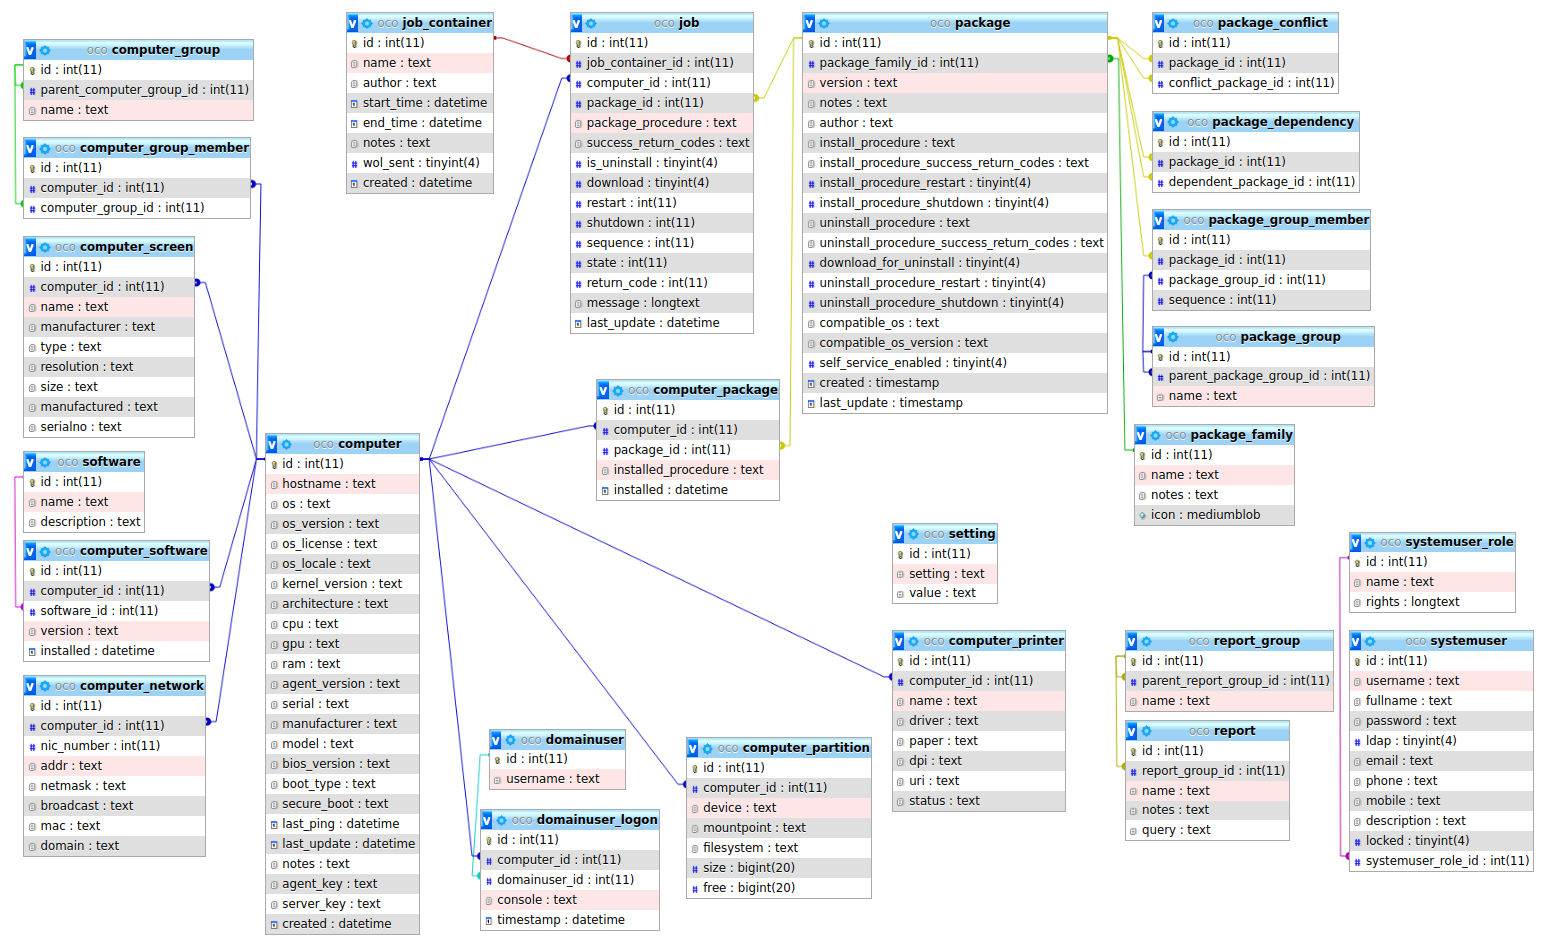
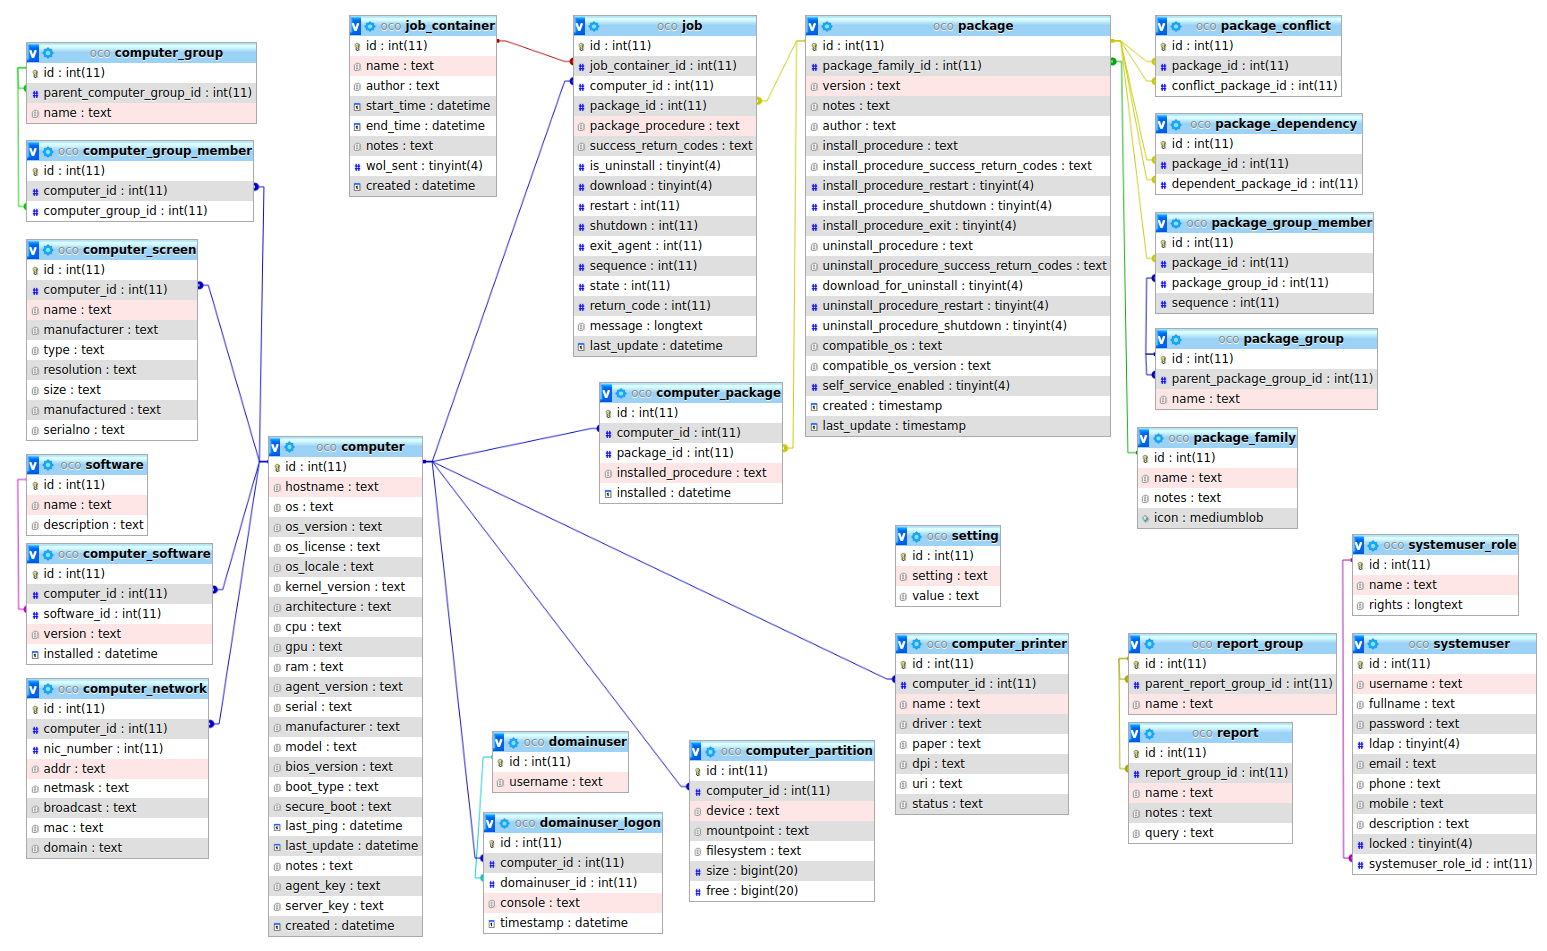
add agent exit/restart feature (for agent update packages)

diff --git a/frontend/js/main.js b/frontend/js/main.js
@@ -290,7 +290,7 @@ function updatePackageProcedureTemplates() {
 		lstUninstallProcedures.innerHTML = newOptions2;
 	}
 }
-function createPackage(name, version, description, archive, install_procedure, install_procedure_success_return_codes, install_procedure_restart, install_procedure_shutdown, uninstall_procedure, uninstall_procedure_success_return_codes, download_for_uninstall, uninstall_procedure_restart, uninstall_procedure_shutdown, compatible_os, compatible_os_version) {
+function createPackage(name, version, description, archive, install_procedure, install_procedure_success_return_codes, install_procedure_restart, install_procedure_shutdown, install_procedure_exit, uninstall_procedure, uninstall_procedure_success_return_codes, download_for_uninstall, uninstall_procedure_restart, uninstall_procedure_shutdown, compatible_os, compatible_os_version) {
 	if(typeof archive === 'undefined') {
 		if(!confirm(L__CONFIRM_CREATE_EMPTY_PACKAGE)) {
 			return;
@@ -311,6 +311,7 @@ function createPackage(name, version, description, archive, install_procedure, i
 	formData.append('install_procedure_success_return_codes', install_procedure_success_return_codes);
 	formData.append('install_procedure_restart', install_procedure_restart ? '1' : '0');
 	formData.append('install_procedure_shutdown', install_procedure_shutdown ? '1' : '0');
+	formData.append('install_procedure_exit', install_procedure_exit ? '1' : '0');
 	formData.append('uninstall_procedure', uninstall_procedure);
 	formData.append('uninstall_procedure_success_return_codes', uninstall_procedure_success_return_codes);
 	formData.append('download_for_uninstall', download_for_uninstall ? '1' : '0');

diff --git a/lib/Db.php b/lib/Db.php
@@ -631,10 +631,10 @@ class Db {
 		]);
 		return $this->dbh->lastInsertId();
 	}
-	public function addPackage($package_family_id, $version, $author, $notes, $install_procedure, $install_procedure_success_return_codes, $install_procedure_restart, $install_procedure_shutdown, $uninstall_procedure, $uninstall_procedure_success_return_codes, $download_for_uninstall, $uninstall_procedure_restart, $uninstall_procedure_shutdown, $compatible_os, $compatible_os_version) {
+	public function addPackage($package_family_id, $version, $author, $notes, $install_procedure, $install_procedure_success_return_codes, $install_procedure_restart, $install_procedure_shutdown, $install_procedure_exit, $uninstall_procedure, $uninstall_procedure_success_return_codes, $download_for_uninstall, $uninstall_procedure_restart, $uninstall_procedure_shutdown, $compatible_os, $compatible_os_version) {
 		$this->stmt = $this->dbh->prepare(
-			'INSERT INTO package (package_family_id, version, author, notes, install_procedure, install_procedure_success_return_codes, install_procedure_restart, install_procedure_shutdown, uninstall_procedure, uninstall_procedure_success_return_codes, download_for_uninstall, uninstall_procedure_restart, uninstall_procedure_shutdown, compatible_os, compatible_os_version)
-			VALUES (:package_family_id, :version, :author, :notes, :install_procedure, :install_procedure_success_return_codes, :install_procedure_restart, :install_procedure_shutdown, :uninstall_procedure, :uninstall_procedure_success_return_codes, :download_for_uninstall, :uninstall_procedure_restart, :uninstall_procedure_shutdown, :compatible_os, :compatible_os_version)'
+			'INSERT INTO package (package_family_id, version, author, notes, install_procedure, install_procedure_success_return_codes, install_procedure_restart, install_procedure_shutdown, install_procedure_exit, uninstall_procedure, uninstall_procedure_success_return_codes, download_for_uninstall, uninstall_procedure_restart, uninstall_procedure_shutdown, compatible_os, compatible_os_version)
+			VALUES (:package_family_id, :version, :author, :notes, :install_procedure, :install_procedure_success_return_codes, :install_procedure_restart, :install_procedure_shutdown, :install_procedure_exit, :uninstall_procedure, :uninstall_procedure_success_return_codes, :download_for_uninstall, :uninstall_procedure_restart, :uninstall_procedure_shutdown, :compatible_os, :compatible_os_version)'
 		);
 		$this->stmt->execute([
 			':package_family_id' => $package_family_id,
@@ -645,6 +645,7 @@ class Db {
 			':install_procedure_success_return_codes' => $install_procedure_success_return_codes,
 			':install_procedure_restart' => $install_procedure_restart,
 			':install_procedure_shutdown' => $install_procedure_shutdown,
+			':install_procedure_exit' => $install_procedure_exit,
 			':uninstall_procedure' => $uninstall_procedure,
 			':uninstall_procedure_success_return_codes' => $uninstall_procedure_success_return_codes,
 			':download_for_uninstall' => $download_for_uninstall,
@@ -704,6 +705,12 @@ class Db {
 			'UPDATE package SET last_update = CURRENT_TIMESTAMP, install_procedure_shutdown = :install_procedure_shutdown WHERE id = :id'
 		);
 		return $this->stmt->execute([':id' => $id, ':install_procedure_shutdown' => $newValue]);
+	}
+	public function updatePackageInstallProcedureExit($id, $newValue) {
+		$this->stmt = $this->dbh->prepare(
+			'UPDATE package SET last_update = CURRENT_TIMESTAMP, install_procedure_exit = :install_procedure_exit WHERE id = :id'
+		);
+		return $this->stmt->execute([':id' => $id, ':install_procedure_exit' => $newValue]);
 	}
 	public function updatePackageUninstallProcedure($id, $newValue) {
 		$this->stmt = $this->dbh->prepare(
@@ -1041,10 +1048,10 @@ class Db {
 		]);
 		return $this->dbh->lastInsertId();
 	}
-	public function addJob($job_container_id, $computer_id, $package_id, $package_procedure, $success_return_codes, $is_uninstall, $download, $restart, $shutdown, $sequence, $state=0) {
+	public function addJob($job_container_id, $computer_id, $package_id, $package_procedure, $success_return_codes, $is_uninstall, $download, $restart, $shutdown, $exit, $sequence, $state=0) {
 		$this->stmt = $this->dbh->prepare(
-			'INSERT INTO job (job_container_id, computer_id, package_id, package_procedure, success_return_codes, is_uninstall, download, restart, shutdown, sequence, state, message)
-			VALUES (:job_container_id, :computer_id, :package_id, :package_procedure, :success_return_codes, :is_uninstall, :download, :restart, :shutdown, :sequence, :state, "")'
+			'INSERT INTO job (job_container_id, computer_id, package_id, package_procedure, success_return_codes, is_uninstall, download, restart, shutdown, exit_agent, sequence, state, message)
+			VALUES (:job_container_id, :computer_id, :package_id, :package_procedure, :success_return_codes, :is_uninstall, :download, :restart, :shutdown, :exit_agent, :sequence, :state, "")'
 		);
 		$this->stmt->execute([
 			':job_container_id' => $job_container_id,
@@ -1056,6 +1063,7 @@ class Db {
 			':download' => $download,
 			':restart' => $restart,
 			':shutdown' => $shutdown,
+			':exit_agent' => $exit,
 			':sequence' => $sequence,
 			':state' => $state,
 		]);
@@ -1150,7 +1158,7 @@ class Db {
 	}
 	public function getPendingJobsForComputer($id) {
 		$this->stmt = $this->dbh->prepare(
-			'SELECT j.id AS "id", j.package_id AS "package_id", j.package_procedure AS "procedure", j.download AS "download", j.restart AS "restart", j.shutdown AS "shutdown"
+			'SELECT j.id AS "id", j.package_id AS "package_id", j.package_procedure AS "procedure", j.download AS "download", j.restart AS "restart", j.shutdown AS "shutdown", j.exit_agent AS "exit_agent"
 			FROM job j
 			INNER JOIN job_container jc ON j.job_container_id = jc.id
 			WHERE j.computer_id = :id

diff --git a/lib/CoreLogic.php b/lib/CoreLogic.php
@@ -97,7 +97,7 @@ class CoreLogic {
 
 	/*** Package Operations ***/
 	public function createPackage($name, $version, $description, $author,
-		$installProcedure, $installProcedureSuccessReturnCodes, $installProcedureRestart, $installProcedureShutdown,
+		$installProcedure, $installProcedureSuccessReturnCodes, $installProcedureRestart, $installProcedureShutdown, $installProcedureExit,
 		$uninstallProcedure, $uninstallProcedureSuccessReturnCodes, $downloadForUninstall, $uninstallProcedureRestart, $uninstallProcedureShutdown,
 		$compatibleOs, $compatibleOsVersion, $tmpFilePath, $fileName=null) {
 		if($fileName == null && $tmpFilePath != null) {
@@ -139,6 +139,7 @@ class CoreLogic {
 			$installProcedureSuccessReturnCodes,
 			$installProcedureRestart,
 			$installProcedureShutdown,
+			$installProcedureExit,
 			$uninstallProcedure,
 			$uninstallProcedureSuccessReturnCodes,
 			$downloadForUninstall,
@@ -207,6 +208,7 @@ class CoreLogic {
 				'success_return_codes' => $p->install_procedure_success_return_codes,
 				'install_procedure_restart' => $p->install_procedure_restart,
 				'install_procedure_shutdown' => $p->install_procedure_shutdown,
+				'install_procedure_exit' => $p->install_procedure_exit,
 				'compatible_os' => $p->compatible_os,
 				'compatible_os_version' => $p->compatible_os_version,
 				'download' => $p->getFilePath() ? true : false,
@@ -230,6 +232,7 @@ class CoreLogic {
 					'success_return_codes' => $p->install_procedure_success_return_codes,
 					'install_procedure_restart' => $p->install_procedure_restart,
 					'install_procedure_shutdown' => $p->install_procedure_shutdown,
+					'install_procedure_exit' => $p->install_procedure_exit,
 					'compatible_os' => $p->compatible_os,
 					'compatible_os_version' => $p->compatible_os_version,
 					'download' => $p->getFilePath() ? true : false,
@@ -283,6 +286,7 @@ class CoreLogic {
 							0/*is_uninstall*/, $package['download'] ? 1 : 0/*download*/,
 							$package['install_procedure_restart'] ? $restartTimeout : -1,
 							$package['install_procedure_shutdown'] ? $restartTimeout : -1,
+							$package['install_procedure_exit'] ? 1 : -1,
 							$sequence, Job::STATUS_OS_INCOMPATIBLE
 						)) {
 							$sequence ++;
@@ -297,6 +301,7 @@ class CoreLogic {
 							0/*is_uninstall*/, $package['download'] ? 1 : 0/*download*/,
 							$package['install_procedure_restart'] ? $restartTimeout : -1,
 							$package['install_procedure_shutdown'] ? $restartTimeout : -1,
+							$package['install_procedure_exit'] ? 1 : -1,
 							$sequence, Job::STATUS_OS_INCOMPATIBLE
 						)) {
 							$sequence ++;
@@ -316,7 +321,7 @@ class CoreLogic {
 									1/*is_uninstall*/, $cpp->download_for_uninstall,
 									$cpp->uninstall_procedure_restart ? $restartTimeout : -1,
 									$cpp->uninstall_procedure_shutdown ? $restartTimeout : -1,
-									$sequence
+									-1/*exit*/, $sequence
 								);
 								$sequence ++;
 							}
@@ -329,6 +334,7 @@ class CoreLogic {
 						0/*is_uninstall*/, $package['download'] ? 1 : 0/*download*/,
 						$package['install_procedure_restart'] ? $restartTimeout : -1,
 						$package['install_procedure_shutdown'] ? $restartTimeout : -1,
+						$package['install_procedure_exit'] ? 1 : -1,
 						$sequence
 					)) {
 						$sequence ++;
@@ -398,7 +404,7 @@ class CoreLogic {
 				1/*is_uninstall*/, $p->download_for_uninstall,
 				$p->uninstall_procedure_restart ? $restartTimeout : -1,
 				$p->uninstall_procedure_shutdown ? $restartTimeout : -1,
-				0/*sequence*/
+				-1/*exit*/, 0/*sequence*/
 			);
 		}
 	}

diff --git a/frontend/views/package-new.php b/frontend/views/package-new.php
@@ -15,7 +15,7 @@ if(isset($_POST['name'])) {
 		}
 		// create package
 		$insertId = $cl->createPackage($_POST['name'], $_POST['version'], $_POST['description'] ?? '', $_SESSION['um_username'] ?? '',
-			$_POST['install_procedure'], $_POST['install_procedure_success_return_codes'] ?? '', $_POST['install_procedure_restart'] ?? null, $_POST['install_procedure_shutdown'] ?? null,
+			$_POST['install_procedure'], $_POST['install_procedure_success_return_codes'] ?? '', $_POST['install_procedure_restart'] ?? null, $_POST['install_procedure_shutdown'] ?? null, $_POST['install_procedure_exit'] ?? null,
 			$_POST['uninstall_procedure'] ?? '', $_POST['uninstall_procedure_success_return_codes'] ?? '', $_POST['download_for_uninstall'], $_POST['uninstall_procedure_restart'] ?? null, $_POST['uninstall_procedure_shutdown'] ?? null,
 			$_POST['compatible_os'] ?? null, $_POST['compatible_os_version'] ?? null, $tmpFilePath, $tmpFileName
 		);
@@ -106,6 +106,7 @@ if(isset($_POST['name'])) {
 			<label class='inlineblock'><input type='radio' name='install_post_action' id='rdoInstallPostActionNone' checked='true'>&nbsp;<?php echo LANG['no_action']; ?></label>
 			<label class='inlineblock'><input type='radio' name='install_post_action' id='rdoInstallPostActionRestart'>&nbsp;<?php echo LANG['restart']; ?></label>
 			<label class='inlineblock'><input type='radio' name='install_post_action' id='rdoInstallPostActionShutdown'>&nbsp;<?php echo LANG['shutdown']; ?></label>
+			<label class='inlineblock'><input type='radio' name='install_post_action' id='rdoInstallPostActionExit'>&nbsp;<?php echo LANG['restart_agent']; ?></label>
 		</td>
 	</tr>
 	<tr>
@@ -135,7 +136,7 @@ if(isset($_POST['name'])) {
 	<tr>
 		<th></th>
 		<td colspan='4'>
-			<button id='btnCreatePackage' onclick='createPackage(txtName.value, txtVersion.value, txtDescription.value, fleArchive.files[0], txtInstallProcedure.value, txtInstallProcedureSuccessReturnCodes.value, rdoInstallPostActionRestart.checked, rdoInstallPostActionShutdown.checked, txtUninstallProcedure.value, txtUninstallProcedureSuccessReturnCodes.value, chkDownloadForUninstall.checked, rdoUninstallPostActionRestart.checked, rdoUninstallPostActionShutdown.checked, txtCompatibleOs.value, txtCompatibleOsVersion.value)'><img src='img/send.svg'>&nbsp;<?php echo LANG['send']; ?></button>
+			<button id='btnCreatePackage' onclick='createPackage(txtName.value, txtVersion.value, txtDescription.value, fleArchive.files[0], txtInstallProcedure.value, txtInstallProcedureSuccessReturnCodes.value, rdoInstallPostActionRestart.checked, rdoInstallPostActionShutdown.checked, rdoInstallPostActionExit.checked, txtUninstallProcedure.value, txtUninstallProcedureSuccessReturnCodes.value, chkDownloadForUninstall.checked, rdoUninstallPostActionRestart.checked, rdoUninstallPostActionShutdown.checked, txtCompatibleOs.value, txtCompatibleOsVersion.value)'><img src='img/send.svg'>&nbsp;<?php echo LANG['send']; ?></button>
 			<?php echo progressBar(0, 'prgPackageUpload', 'prgPackageUploadContainer', 'prgPackageUploadText', 'width:180px;display:none;'); ?>
 		</td>
 </table>

diff --git a/frontend/views/package-detail.php b/frontend/views/package-detail.php
@@ -40,12 +40,19 @@ if(!empty($_POST['update_package_id']) && isset($_POST['update_install_procedure
 	if($_POST['update_install_procedure_action'] == '0') {
 		$db->updatePackageInstallProcedureRestart($_POST['update_package_id'], 0);
 		$db->updatePackageInstallProcedureShutdown($_POST['update_package_id'], 0);
+		$db->updatePackageInstallProcedureExit($_POST['update_package_id'], 0);
 	} elseif($_POST['update_install_procedure_action'] == '1') {
 		$db->updatePackageInstallProcedureRestart($_POST['update_package_id'], 1);
 		$db->updatePackageInstallProcedureShutdown($_POST['update_package_id'], 0);
+		$db->updatePackageInstallProcedureExit($_POST['update_package_id'], 0);
 	} elseif($_POST['update_install_procedure_action'] == '2') {
 		$db->updatePackageInstallProcedureRestart($_POST['update_package_id'], 0);
 		$db->updatePackageInstallProcedureShutdown($_POST['update_package_id'], 1);
+		$db->updatePackageInstallProcedureExit($_POST['update_package_id'], 0);
+	} elseif($_POST['update_install_procedure_action'] == '3') {
+		$db->updatePackageInstallProcedureRestart($_POST['update_package_id'], 0);
+		$db->updatePackageInstallProcedureShutdown($_POST['update_package_id'], 0);
+		$db->updatePackageInstallProcedureExit($_POST['update_package_id'], 1);
 	} else {
 		header('HTTP/1.1 400 Invalid Value');
 	}
@@ -162,6 +169,7 @@ if(!empty($packageFamily->icon)) {
 					if(!$package->install_procedure_restart && !$package->install_procedure_shutdown) $info = LANG['no_action'];
 					if($package->install_procedure_restart) $info = LANG['restart'];
 					if($package->install_procedure_shutdown) $info = LANG['shutdown'];
+					if($package->install_procedure_exit) $info = LANG['restart_agent'];
 					echo wrapInSpanIfNotEmpty($info);
 					?><!--
 					--><button onclick='event.stopPropagation();editPackageInstallProcedureAction(<?php echo $package->id; ?>, this.getAttribute("oldValue"));return false' oldValue='0'><img class='small' src='img/edit.dyn.svg' title='<?php echo LANG['edit']; ?>'></button>

diff --git a/lib/lang/de.php b/lib/lang/de.php
@@ -279,6 +279,7 @@ const LANG = [
 	'change_icon' => 'Icon ändern',
 	'remove_icon' => 'Icon entfernen',
 	'are_you_sure' => 'Sind Sie sicher?',
+	'restart_agent' => 'Agent neu starten',
 	'package_creation_notes' => '
 		<p>
 			Ein Paket besteht aus einem ZIP-Archiv, welches bei der Bereitstellung in ein temporäres Verzeichnis entpackt wird. Anschließend wird ein Kommando (die Prozedur) ausgeführt, um die Installation zu starten. Längere Kommandos sollten in ein selbst geschriebenes Skript (.bat bzw. .sh) ausgelagert werden.

diff --git a/lib/lang/en.php b/lib/lang/en.php
@@ -279,6 +279,7 @@ const LANG = [
 	'change_icon' => 'Change Icon',
 	'remove_icon' => 'Remove Icon',
 	'are_you_sure' => 'Are you sure?',
+	'restart_agent' => 'Restart Agent',
 	'package_creation_notes' => '
 		<p>
 			A package consists of a ZIP archive, which is unpacked into a temporary directory when it is made available. Then a command (the procedure) is executed to start the installation. Longer commands should be stored in a script (.bat or .sh) you have written yourself.

diff --git a/lib/Models.php b/lib/Models.php
@@ -123,6 +123,7 @@ class Package {
 	public $install_procedure_success_return_codes;
 	public $install_procedure_restart;
 	public $install_procedure_shutdown;
+	public $install_procedure_exit;
 	public $uninstall_procedure;
 	public $uninstall_procedure_success_return_codes;
 	public $download_for_uninstall;
@@ -180,6 +181,7 @@ class Job {
 	public $download;
 	public $restart;
 	public $shutdown;
+	public $exit_agent;
 	public $sequence;
 	public $state;
 	public $return_code;

diff --git a/frontend/api-agent.php b/frontend/api-agent.php
@@ -146,6 +146,7 @@ switch($srcdata['method']) {
 					'procedure' => $pj['procedure'],
 					'restart' => $pj['restart']==null ? null : intval($pj['restart']),
 					'shutdown' => $pj['shutdown']==null ? null : intval($pj['shutdown']),
+					'exit' => $pj['exit_agent']==null ? null : intval($pj['exit_agent']),
 				];
 			}
 

diff --git a/frontend/views/job-container.php b/frontend/views/job-container.php
@@ -81,6 +81,7 @@ if(!empty($_POST['renew_container_id']) && !empty($_POST['renew_start_time'])) {
 					$job->is_uninstall, $job->download,
 					$job->restart,
 					$job->shutdown,
+					$job->exit_agent,
 					$job->sequence
 				)) {
 					if($db->removeJob($job->id)) {
